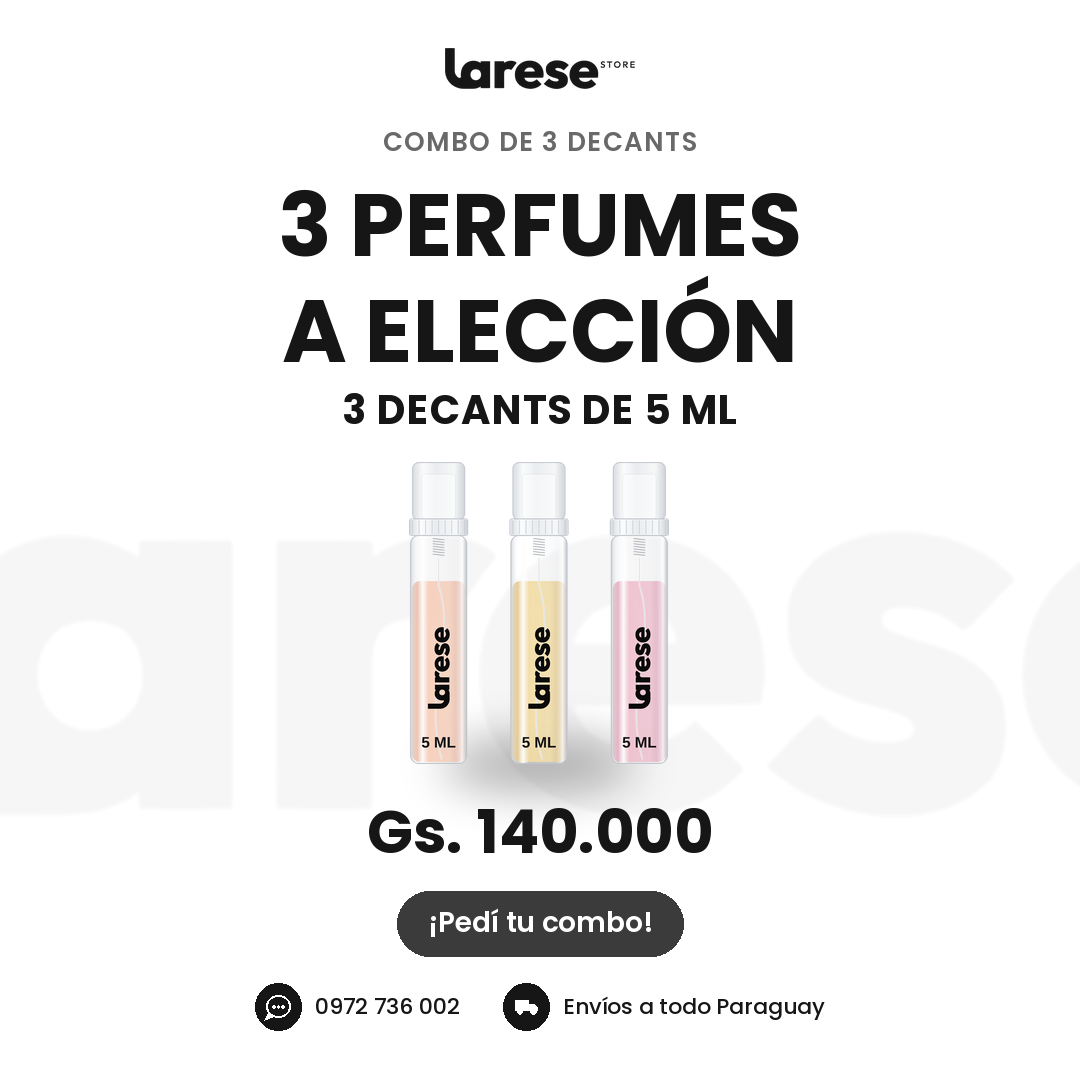
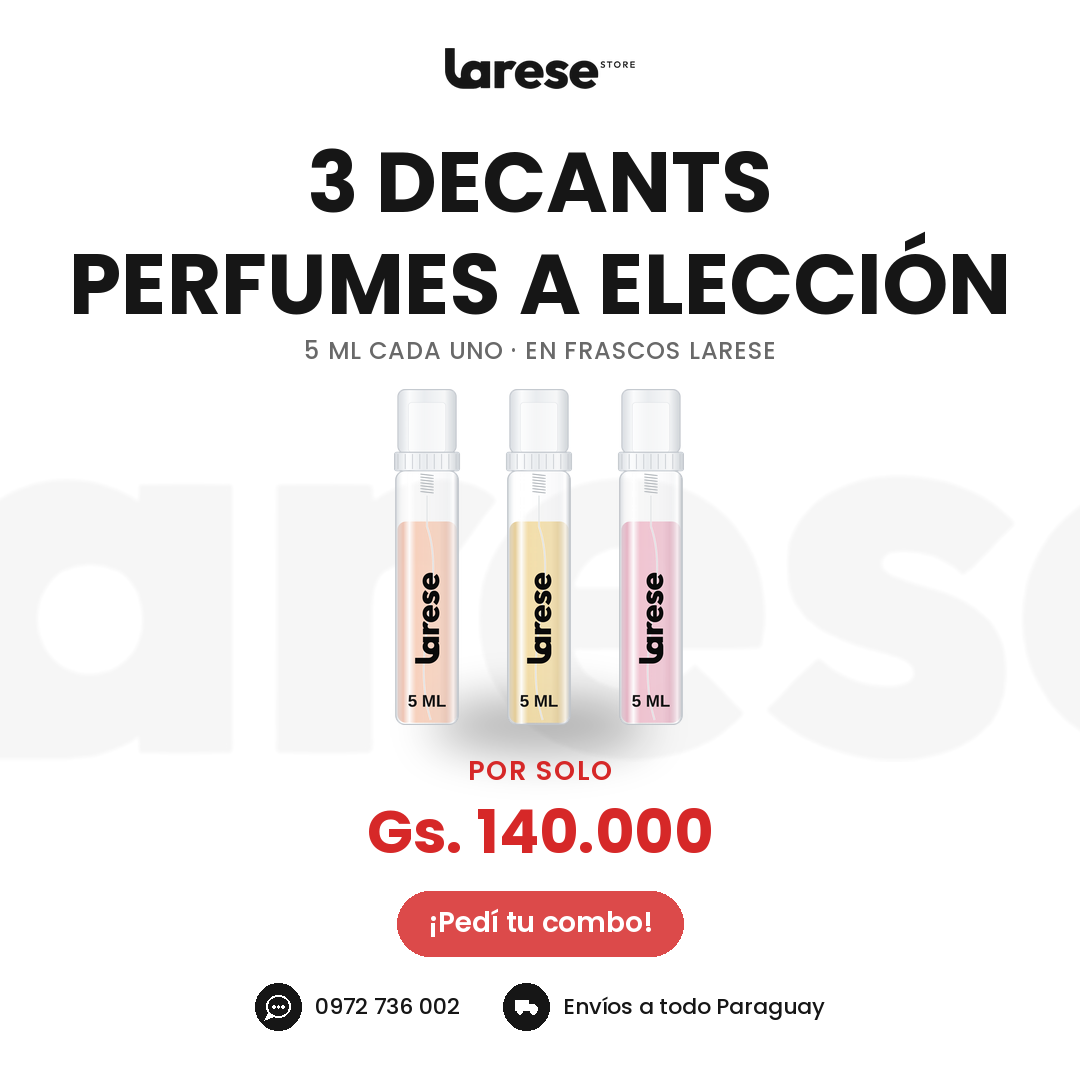
3x5 ml combo ad: red price and button, new title '3 decants perfumes a elección'
Adds two optional spec fields to the white-background generator:
color_destacado (price and CTA button in an accent color) and
precio_prefijo_arriba (price prefix on its own smaller line). Also
brings in subtitulo_destacado and precio_anterior_texto, which the
combo specs already use.

Claude-Session: https://claude.ai/code/session_01DnzkNNyWXgpmVTEFBLbWD6

Changed region(s): [[0.0611, 0.1222, 0.9472, 0.3361], [0.3056, 0.3667, 0.6722, 0.7944], [0.3667, 0.825, 0.6417, 0.8861]]

diff --git a/herramientas/pieza-fondo-blanco/scripts/crear_pieza.py b/herramientas/pieza-fondo-blanco/scripts/crear_pieza.py
@@ -18,9 +18,13 @@ Spec (JSON). Solo "formato" y "titulo" son obligatorios:
   "etiqueta": "Decant original",          # línea chica arriba del título
   "titulo": "Good Girl Blush",            # grande, va en mayúsculas
   "subtitulo": "Carolina Herrera · 3, 5 y 10 ml",
+  "subtitulo_destacado": true,            # opcional: subtítulo más grande, en negrita y negro
   "precio": 40000,                        # número en guaraníes -> "Gs. 40.000"
   "precio_prefijo": "Desde",              # opcional
+  "precio_prefijo_arriba": true,          # opcional: el prefijo va en su propia línea, más chico, arriba del precio
+  "color_destacado": "#D62828",           # opcional: precio y botón en este color para llamar la atención
   "precio_anterior": 50000,               # opcional, se muestra tachado
+  "precio_anterior_texto": "Precio normal",  # opcional, rótulo sin tachar antes del precio anterior
   "descuento": "-20%",                    # opcional, sello blanco
   "imagen": "producto.png",               # foto del producto (ideal: fondo blanco o PNG recortado)
   "elementos": ["flor.png"],              # opcional: imágenes extra para las esquinas desenfocadas
@@ -138,8 +142,11 @@ def txt(d, cx, y, t, f, color=TEXTO, esp=0):
 
 
 def envolver(d, t, f, maxw, esp=0):
+    # Solo corta en espacios comunes: un espacio duro (\u00a0) mantiene juntas dos palabras
     lineas, act = [], ""
-    for p in t.split():
+    for p in t.split(" "):
+        if not p:
+            continue
         prueba = (act + " " + p).strip()
         if ancho_txt(d, prueba, f, esp) <= maxw:
             act = prueba
@@ -379,20 +386,33 @@ def pie(img, y, tam, color_circulo):
 def precio(img, cx, y, spec, tam):
     d = ImageDraw.Draw(img)
     actual = guaranies(spec.get("precio"))
-    if actual and spec.get("precio_prefijo"):
-        actual = f'{spec["precio_prefijo"]} {actual}'
+    prefijo = (spec.get("precio_prefijo") or "").strip()
+    arriba = bool(prefijo and spec.get("precio_prefijo_arriba"))
+    if actual and prefijo and not arriba:
+        actual = f'{prefijo} {actual}'
+    color_precio = hex_a_rgb(spec["color_destacado"]) if spec.get("color_destacado") else TEXTO
     anterior = guaranies(spec.get("precio_anterior"))
     if anterior:
         f2 = fuente(tam * 0.46, b"Medium")
         w2 = d.textlength(anterior, font=f2)
         claro = (120, 120, 120, 255)
-        d.text((cx - w2 / 2, y), anterior, font=f2, fill=claro)
+        # "precio_anterior_texto": rótulo sin tachar antes del número (ej. "Precio normal aprox.")
+        rotulo = (spec.get("precio_anterior_texto") or "").strip()
+        wr = d.textlength(rotulo + "  ", font=f2) if rotulo else 0
+        x0 = cx - (wr + w2) / 2
+        if rotulo:
+            d.text((x0, y), rotulo, font=f2, fill=claro)
+        d.text((x0 + wr, y), anterior, font=f2, fill=claro)
         a, _ = f2.getmetrics()
-        d.line((cx - w2 / 2 - 4, y + a * 0.62, cx + w2 / 2 + 4, y + a * 0.62), fill=claro, width=3)
+        d.line((x0 + wr - (2 if rotulo else 4), y + a * 0.62, x0 + wr + w2 + 4, y + a * 0.62), fill=claro, width=3)
         y += alto_linea(f2, 1.05)
+    if actual and arriba:
+        fp = fuente(tam * 0.46, b"SemiBold")
+        txt(ImageDraw.Draw(img), cx, y, prefijo.upper(), fp, color_precio, esp=tam * 0.46 * 0.06)
+        y += alto_linea(fp, 1.0)
     if actual:
         f = fuente(tam, b"Bold")
-        txt(ImageDraw.Draw(img), cx, y, actual, f)
+        txt(ImageDraw.Draw(img), cx, y, actual, f, color_precio)
         y += alto_linea(f, 1.05)
     return y
 
@@ -401,6 +421,8 @@ def alto_precio(spec, tam):
     al = 0
     if spec.get("precio_anterior"):
         al += alto_linea(fuente(tam * 0.46, b"Medium"), 1.05)
+    if spec.get("precio") and spec.get("precio_prefijo") and spec.get("precio_prefijo_arriba"):
+        al += alto_linea(fuente(tam * 0.46, b"SemiBold"), 1.0)
     if spec.get("precio"):
         al += alto_linea(fuente(tam, b"Bold"), 1.05)
     return al
@@ -432,6 +454,8 @@ def armar(spec):
             or COLOR_CATEGORIA.get(spec.get("categoria", ""), COLOR_DEFECTO)
     # fondo SIEMPRE blanco (se ignora el color de la foto o de la categoría)
     oscuro = ACENTO
+    # "color_destacado": el botón va en ese color (el pie sigue en negro)
+    color_boton = hex_a_rgb(spec["color_destacado"]) if spec.get("color_destacado") else oscuro
 
     img = fondo(w, h, FONDO)
     d = ImageDraw.Draw(img)
@@ -448,7 +472,10 @@ def armar(spec):
     arriba += alto_linea(ft, 0.86) * len(lt)
     fs, ls = None, []
     if spec.get("subtitulo"):
-        fs, ls, _ = ajustar(d, spec["subtitulo"].upper(), M["sub"], M["sub"] * 0.7, w - 180, 2, b"Medium", 0.04)
+        # "subtitulo_destacado": el subtítulo sale más grande, en negrita y en negro
+        tam_sub = M["sub"] * (1.7 if spec.get("subtitulo_destacado") else 1)
+        peso_sub = b"Bold" if spec.get("subtitulo_destacado") else b"Medium"
+        fs, ls, _ = ajustar(d, spec["subtitulo"].upper(), int(tam_sub), tam_sub * 0.7, w - 180, 2, peso_sub, 0.04)
         arriba += alto_linea(fs, 1.15) * len(ls) + 6
 
     # --- bloque de abajo (medición) ---
@@ -501,7 +528,7 @@ def armar(spec):
     if ls:
         y += 6
         for l in ls:
-            txt(d, cx, y, l, fs, GRIS, esp=M["sub"] * 0.04)
+            txt(d, cx, y, l, fs, TEXTO if spec.get("subtitulo_destacado") else GRIS, esp=M["sub"] * 0.04)
             y += alto_linea(fs, 1.15)
 
     # --- bloque de abajo ---
@@ -511,7 +538,7 @@ def armar(spec):
         return img.convert("RGB")
     yb = precio(img, cx, abajo + M["pre"] * 0.25, spec, M["pre"])
     if spec.get("cta"):
-        boton(img, cx, yb + M["cta"] * 0.45, spec["cta"], M["cta"], oscuro)
+        boton(img, cx, yb + M["cta"] * 0.45, spec["cta"], M["cta"], color_boton)
     if M["pie_y"]:
         pie(img, pie_y, M["pie"], oscuro)
     return img.convert("RGB")
